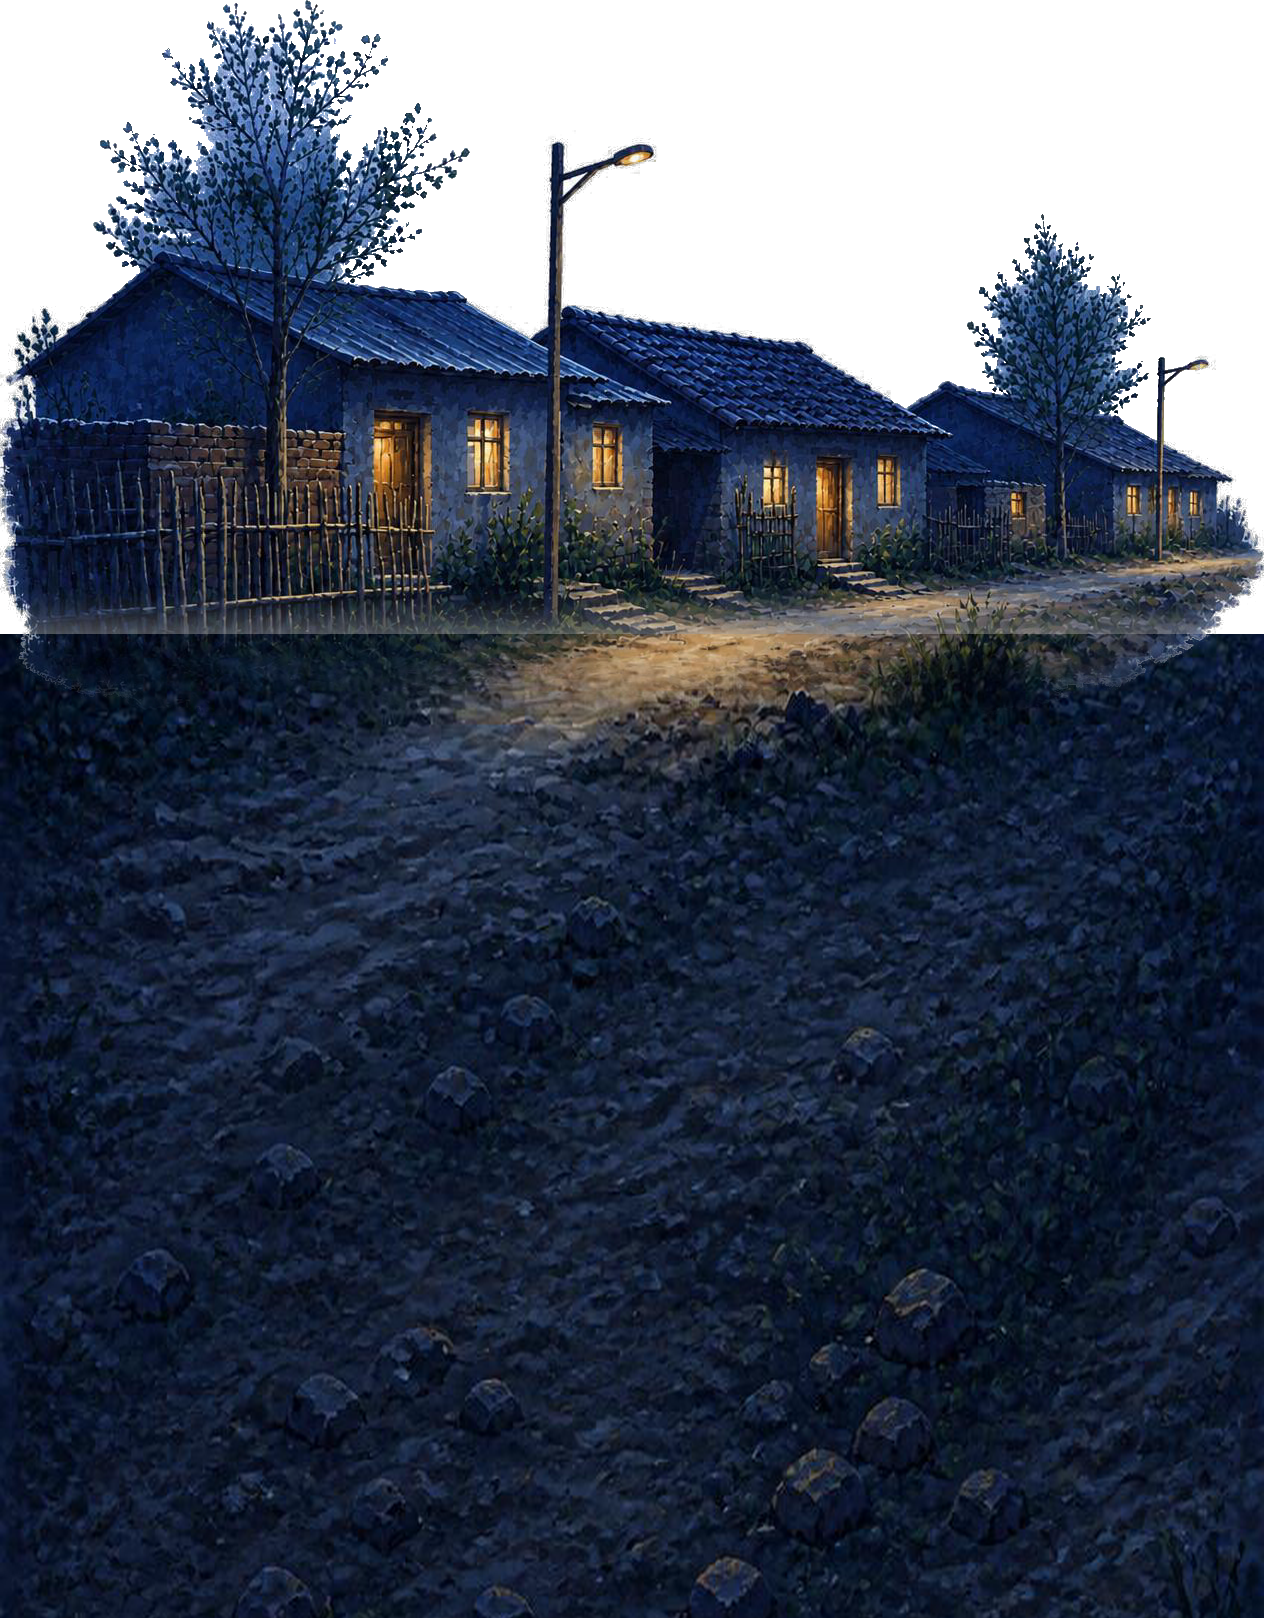
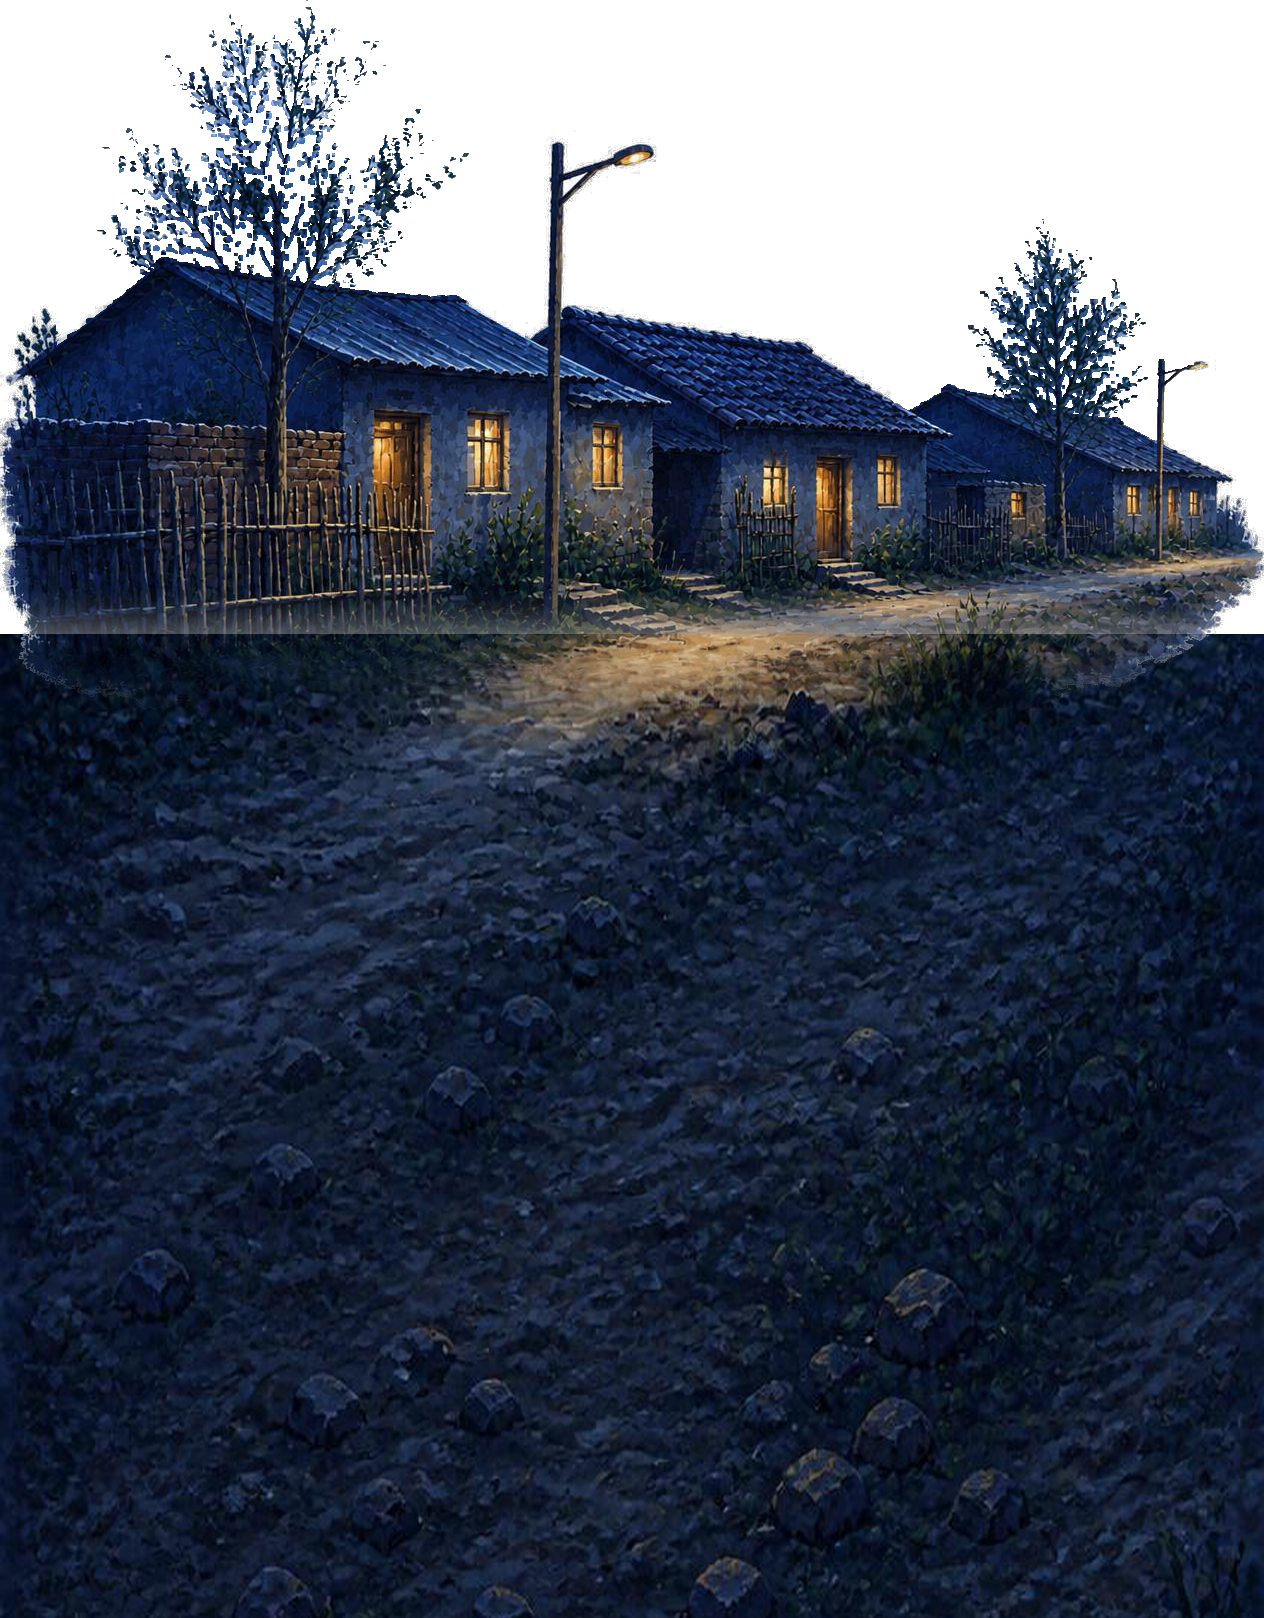
Clean foreground tree transparency

Changed region(s): [[0.0617, 0.0, 0.3703, 0.1854], [0.7714, 0.1545, 0.8948, 0.2472], [0.0617, 0.1854, 0.0926, 0.2163]]

diff --git a/scripts/clean-foreground-foliage.js b/scripts/clean-foreground-foliage.js
@@ -1,0 +1,80 @@
+/* eslint-disable @typescript-eslint/no-require-imports -- standalone Node asset utility */
+const sharp = require("sharp");
+const { rename } = require("node:fs/promises");
+
+const WIDTH = 1264;
+const HEIGHT = 1618;
+
+// The main-village illustrations were painted over a white canvas before
+// being keyed to alpha. The original connected-background pass cannot reach
+// pale matte islands enclosed by branches, so clean only the two known canopy
+// zones. Architecture and the downward terrain extension are outside them.
+const CANOPY_ZONES = [
+  { left: 55, top: 0, right: 525, bottom: 455 },
+  { left: 900, top: 155, right: 1215, bottom: 500 },
+];
+
+function inCanopy(x, y) {
+  return CANOPY_ZONES.some(
+    (zone) => x > zone.left && x < zone.right && y > zone.top && y < zone.bottom,
+  );
+}
+
+async function cleanNightWithDaySilhouette(dayPath, nightPath) {
+  const day = await sharp(dayPath).ensureAlpha().raw().toBuffer({ resolveWithObject: true });
+  const night = await sharp(nightPath).ensureAlpha().raw().toBuffer({ resolveWithObject: true });
+
+  if (day.info.width !== WIDTH || day.info.height !== HEIGHT || night.info.width !== WIDTH || night.info.height !== HEIGHT) {
+    throw new Error("Unexpected foreground dimensions; review canopy zones before running this cleanup.");
+  }
+
+  // Night was generated from the same aligned composition but retained a
+  // denser white matte. The already-clean day alpha is the safest semantic
+  // guide for where sky should pass through. A one-pixel dilation preserves
+  // night foliage that is only slightly fuller, while removing the large
+  // enclosed matte sheets responsible for the pale canopy blobs.
+  const dayAlphaDilated = Buffer.alloc(WIDTH * HEIGHT);
+  for (let y = 0; y < HEIGHT; y += 1) {
+    for (let x = 0; x < WIDTH; x += 1) {
+      let maxAlpha = 0;
+      for (let sampleY = Math.max(0, y - 1); sampleY <= Math.min(HEIGHT - 1, y + 1); sampleY += 1) {
+        for (let sampleX = Math.max(0, x - 1); sampleX <= Math.min(WIDTH - 1, x + 1); sampleX += 1) {
+          maxAlpha = Math.max(maxAlpha, day.data[(sampleY * WIDTH + sampleX) * 4 + 3]);
+        }
+      }
+      dayAlphaDilated[y * WIDTH + x] = maxAlpha;
+    }
+  }
+
+  const output = Buffer.from(night.data);
+  for (let y = 0; y < HEIGHT; y += 1) {
+    for (let x = 0; x < WIDTH; x += 1) {
+      if (!inCanopy(x, y)) continue;
+      const pixel = (y * WIDTH + x) * 4;
+      const cleanedAlpha = Math.min(output[pixel + 3], dayAlphaDilated[y * WIDTH + x]);
+      output[pixel + 3] = cleanedAlpha;
+      if (cleanedAlpha === 0) {
+        output[pixel] = 0;
+        output[pixel + 1] = 0;
+        output[pixel + 2] = 0;
+      }
+    }
+  }
+
+  const temporaryPath = `${nightPath}.cleaned`;
+  await sharp(output, { raw: night.info }).png().toFile(temporaryPath);
+  await rename(temporaryPath, nightPath);
+}
+
+async function main() {
+  const [dayPath, nightPath] = process.argv.slice(2);
+  if (!dayPath || !nightPath) {
+    throw new Error("Usage: node scripts/clean-foreground-foliage.js DAY.png NIGHT.png");
+  }
+  await cleanNightWithDaySilhouette(dayPath, nightPath);
+}
+
+main().catch((error) => {
+  console.error(error);
+  process.exitCode = 1;
+});
